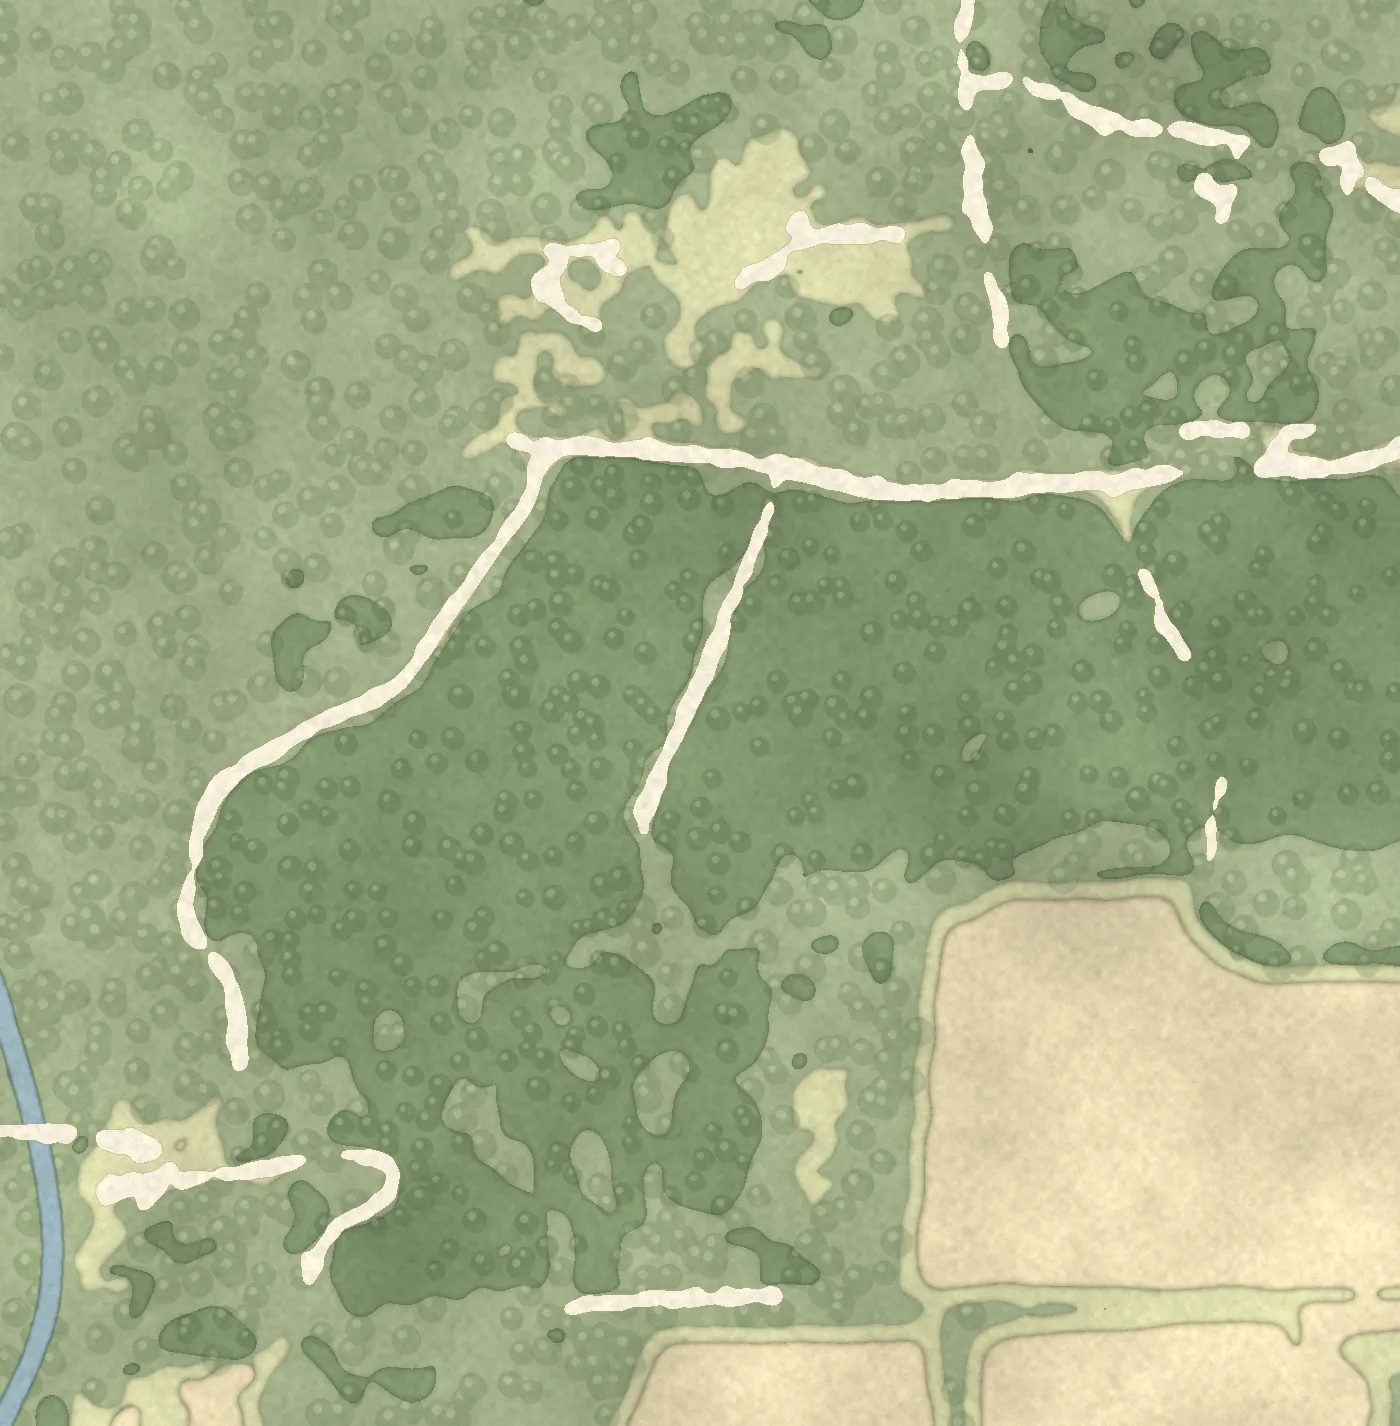
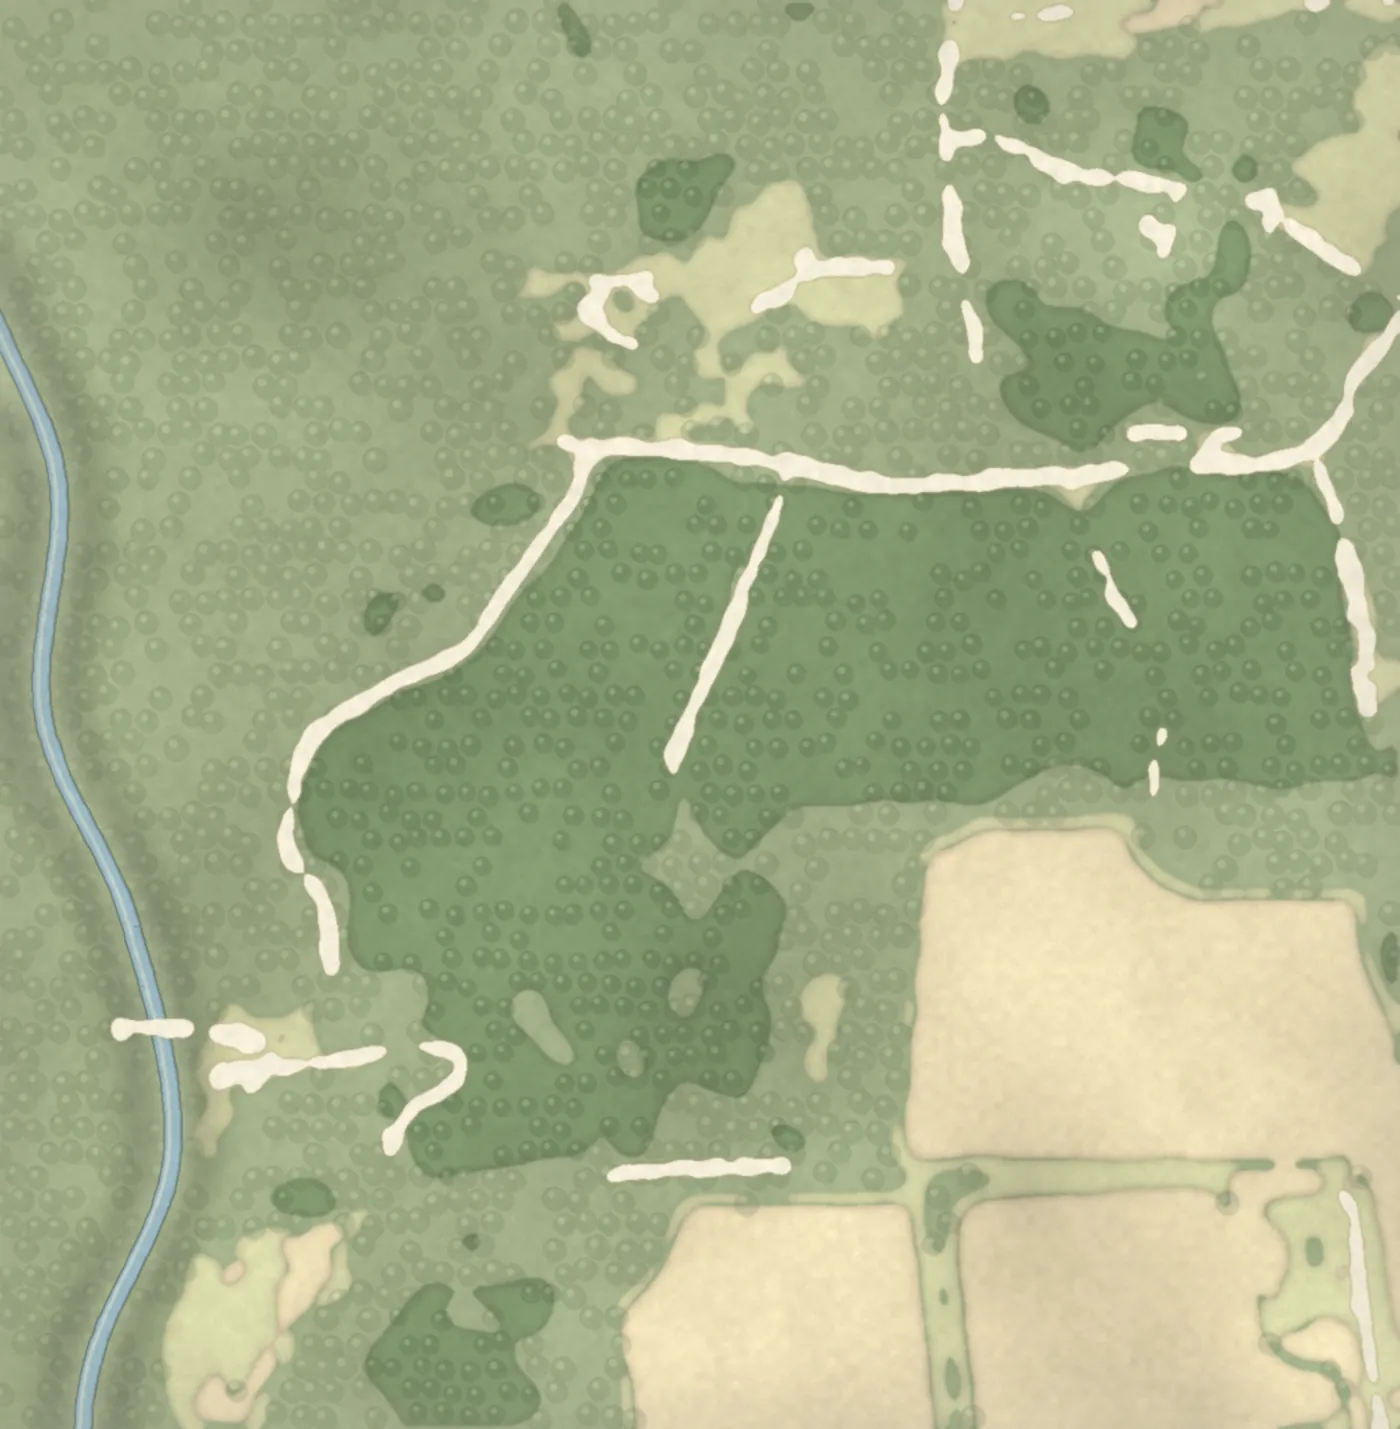
Tour the Course: polish illustrated map, routes, labels, 5-Stand, pavilion, spread Evergreen 2 to 4

diff --git a/src/app/tour-the-course/page.tsx b/src/app/tour-the-course/page.tsx
@@ -18,6 +18,7 @@ type Station = {
   y: number;
   lat: number;
   lng: number;
+  display?: { lat: number; lng: number };
   description: string;
   photo: string | null;
   video: string | null;
@@ -30,9 +31,11 @@ const FULL = data.bounds as Bounds;
 const COURSES = data.courseView as Bounds;
 const boundary = data.boundary as number[][];
 const landmarks = data.landmarks as { id: string; label: string; lat: number; lng: number }[];
+const courseLabels = data.labels as { id: string; text: string; lat: number; lng: number }[];
+const ROUTE_COLOR: Record<string, string> = { Riverside: "#a75235", Evergreen: "#4d5c47" };
 
 const VIEWS = {
-  courses: { bounds: COURSES, aerial: "tfc-aerial-courses-2023", map: "tfc-map-illustrated-courses", aspect: "1293 / 1317" },
+  courses: { bounds: COURSES, aerial: "tfc-aerial-courses-2023", map: "tfc-map-illustrated-courses", aspect: "1400 / 1429" },
   property: { bounds: FULL, aerial: "tfc-aerial-2023", map: "tfc-map-illustrated", aspect: "2000 / 1224" },
 } as const;
 type ViewKey = keyof typeof VIEWS;
@@ -202,14 +205,75 @@ export default function TourTheCourse() {
                 {/* Members-only wild side tease: a soft veil to the west, no pin */}
                 <rect x="0" y="0" width={view === "courses" ? 22 : 48} height="100" fill="url(#wild)" />
                 <polygon points={outline} fill="none" stroke={aerial ? "#f5f2ec" : "#7a5a3c"} strokeOpacity={aerial ? 0.75 : 0.55} strokeWidth="1.5" strokeDasharray="6 4" vectorEffect="non-scaling-stroke" />
+                {view === "courses" &&
+                  (["Riverside", "Evergreen"] as const)
+                    .filter((c) => filter === "All" || filter === c)
+                    .map((c) => (
+                      <polyline
+                        key={c}
+                        points={stations
+                          .filter((s) => s.course === c)
+                          .map((s) => {
+                            const q = toPct(v.bounds, s.lat, s.lng);
+                            return `${q.x.toFixed(2)},${q.y.toFixed(2)}`;
+                          })
+                          .join(" ")}
+                        fill="none"
+                        stroke={ROUTE_COLOR[c]}
+                        strokeOpacity="0.8"
+                        strokeWidth="2"
+                        strokeDasharray="1 5"
+                        strokeLinecap="round"
+                        strokeLinejoin="round"
+                        vectorEffect="non-scaling-stroke"
+                      />
+                    ))}
+                {view === "courses" &&
+                  visible
+                    .filter((s) => s.display)
+                    .map((s) => {
+                      const a = toPct(v.bounds, s.lat, s.lng);
+                      const b = toPct(v.bounds, s.display!.lat, s.display!.lng);
+                      return (
+                        <g key={`lead-${s.id}`}>
+                          <line x1={a.x} y1={a.y} x2={b.x} y2={b.y} stroke="#4d5c47" strokeWidth="1.2" vectorEffect="non-scaling-stroke" />
+                          <circle cx={a.x} cy={a.y} r="0.45" fill="#4d5c47" />
+                        </g>
+                      );
+                    })}
               </svg>
+              {/* Compass */}
+              <svg viewBox="0 0 40 40" className="absolute right-[3%] bottom-[3%] w-8 h-8 sm:w-11 sm:h-11 pointer-events-none opacity-80" aria-hidden="true">
+                <circle cx="20" cy="20" r="13" fill="none" stroke="#5b4a36" strokeWidth="0.8" />
+                <path d="M20 4 L23 20 L20 36 L17 20 Z" fill="#f5f2ec" stroke="#5b4a36" strokeWidth="0.8" />
+                <path d="M20 4 L23 20 L17 20 Z" fill="#a75235" />
+                <path d="M4 20 L20 17.5 L36 20 L20 22.5 Z" fill="#f5f2ec" stroke="#5b4a36" strokeWidth="0.6" />
+                <text x="20" y="3.2" textAnchor="middle" fontSize="5" fill="#5b4a36" fontFamily="serif">N</text>
+              </svg>
+              {/* Soft vignette */}
+              <div className="absolute inset-0 pointer-events-none shadow-[inset_0_0_40px_rgba(74,60,40,0.25)]"></div>
+              {view === "courses" &&
+                courseLabels.map((l) => {
+                  const q = toPct(v.bounds, l.lat, l.lng);
+                  return (
+                    <div
+                      key={l.id}
+                      className={`absolute -translate-x-1/2 -translate-y-1/2 pointer-events-none text-sm sm:text-lg md:text-xl italic tracking-wide ${
+                        aerial ? "text-[#f5f2ec] [text-shadow:0_1px_3px_rgba(0,0,0,0.85)]" : l.id === "riverside" ? "text-[#8a3f27] [text-shadow:0_0_5px_rgba(245,242,236,0.95)]" : "text-[#3c4a36] [text-shadow:0_0_5px_rgba(245,242,236,0.95)]"
+                      }`}
+                      style={{ left: `${q.x}%`, top: `${q.y}%`, fontFamily: "var(--font-heading), serif" }}
+                    >
+                      {l.text}
+                    </div>
+                  );
+                })}
               <div className={`absolute left-[2%] top-[3%] max-w-[30%] text-[10px] sm:text-xs md:text-sm italic leading-snug pointer-events-none ${LBL}`} style={{ fontFamily: "var(--font-heading), serif" }}>
                 {view === "courses" ? "Beyond the courses lies the wild side." : "The wild side."} Members only.
               </div>
               {view === "courses" && (
                 <div
                   className={`absolute text-[10px] sm:text-xs md:text-sm italic tracking-wide pointer-events-none -rotate-90 origin-left whitespace-nowrap ${aerial ? LBL : "text-[#3f6474] [text-shadow:0_0_4px_rgba(245,242,236,0.95)]"}`}
-                  style={{ left: "6.5%", top: "97%", fontFamily: "var(--font-heading), serif" }}
+                  style={{ left: "5.5%", top: "86%", fontFamily: "var(--font-heading), serif" }}
                 >
                   Old Salkehatchie River
                 </div>
@@ -222,7 +286,11 @@ export default function TourTheCourse() {
                     className="absolute -translate-x-1/2 -translate-y-1/2 flex flex-col items-center pointer-events-none"
                     style={{ left: `${p.x}%`, top: `${p.y}%` }}
                   >
-                    <span className="block w-3 h-3 sm:w-3.5 sm:h-3.5 bg-[#f5f2ec] border-2 border-[#7a5a3c] shadow-sm"></span>
+                    <svg viewBox="0 0 20 20" className="w-4 h-4 sm:w-5 sm:h-5 drop-shadow-sm" aria-hidden="true">
+                      <rect x="2" y="2" width="16" height="16" fill="#f5f2ec" stroke="#6b4f35" strokeWidth="1.6" />
+                      <path d="M2 2 L18 18 M18 2 L2 18" stroke="#6b4f35" strokeWidth="0.9" opacity="0.7" />
+                      <rect x="7" y="7" width="6" height="6" fill="#a75235" opacity="0.85" />
+                    </svg>
                     {view === "courses" && (
                       <span className={`mt-1 text-[10px] sm:text-xs italic tracking-wide ${LBL}`} style={{ fontFamily: "var(--font-heading), serif" }}>
                         {l.label}
@@ -232,7 +300,10 @@ export default function TourTheCourse() {
                 );
               })}
               {visible.map((s) => {
-                const p = view === "courses" ? toPct(v.bounds, s.lat, s.lng) : { x: s.x, y: s.y };
+                const p =
+                  view === "courses"
+                    ? toPct(v.bounds, s.display?.lat ?? s.lat, s.display?.lng ?? s.lng)
+                    : { x: s.x, y: s.y };
                 const small = view === "property";
                 return (
                   <button
@@ -240,14 +311,22 @@ export default function TourTheCourse() {
                     type="button"
                     onClick={() => setActiveId(s.id)}
                     aria-label={`${s.name}, ${s.difficulty}`}
-                    className={`absolute -translate-x-1/2 -translate-y-1/2 rounded-full flex items-center justify-center font-bold shadow-lg cursor-pointer transition-transform hover:scale-110 focus:outline-none focus-visible:ring-4 focus-visible:ring-white/70 touch-manipulation ring-1 ring-[#f5f2ec]/80 ${
+                    className={`absolute -translate-x-1/2 -translate-y-1/2 rounded-full flex items-center justify-center font-bold tabular-nums shadow-[0_2px_4px_rgba(40,30,20,0.45)] cursor-pointer transition-transform hover:scale-110 focus:outline-none focus-visible:ring-4 focus-visible:ring-white/70 touch-manipulation ring-1 ring-[#f5f2ec]/80 ${
                       small
                         ? "w-2.5 h-2.5 sm:w-3.5 sm:h-3.5 text-[0px]"
                         : "w-5 h-5 text-[10px] sm:w-7 sm:h-7 sm:text-xs md:w-8 md:h-8 md:text-sm"
                     } ${COURSE_STYLE[s.course].pin} ${activeId === s.id ? "scale-125 ring-4 ring-white z-10" : ""}`}
                     style={{ left: `${p.x}%`, top: `${p.y}%` }}
                   >
-                    {small ? "" : s.label}
+                    {!small && s.course === "5-Stand" && (
+                      <span
+                        className={`absolute top-1/2 -translate-y-1/2 right-full mr-1.5 whitespace-nowrap text-[10px] sm:text-xs italic font-normal ${LBL}`}
+                        style={{ fontFamily: "var(--font-heading), serif" }}
+                      >
+                        5-Stand
+                      </span>
+                    )}
+                    {small ? "" : s.course === "5-Stand" ? "5S" : s.label}
                   </button>
                 );
               })}
